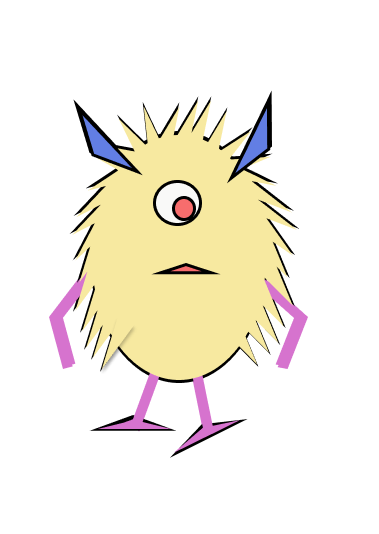
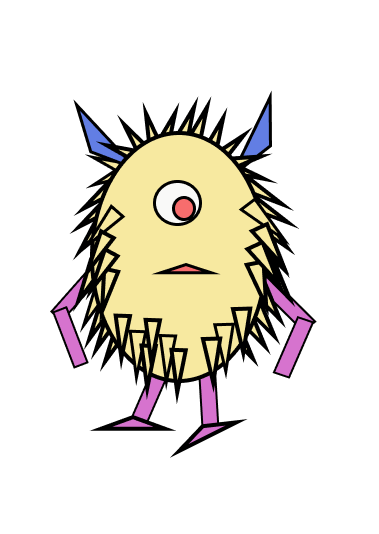
/

Changed region(s): [[0.1161, 0.1798, 0.8417, 0.839]]

diff --git a/Код/file1.js b/Код/file1.js
@@ -18,5 +18,6 @@ function isEmpty(str){
 
 function toChoice() {
     if (isEmpty(document.getElementById("track").value)) {alert("Поле пустое"); }
+    else if (!Number.isInteger(document.getElementById("track").value)) {alert("Неверный формат ввода"); }
     else {return location.href="choice.html"}
 }

diff --git a/Код/file1.html b/Код/file1.html
@@ -29,7 +29,7 @@
         </div>
     </div>
     
-    <img style="position: absolute; display: flex; right: 200px;" src="Monster2.png">
+    <img style="position: absolute; display: flex; right: 200px; width: 350px;" src="Monster.png">
 
     <div class="left">
         <div class="c3 column">
